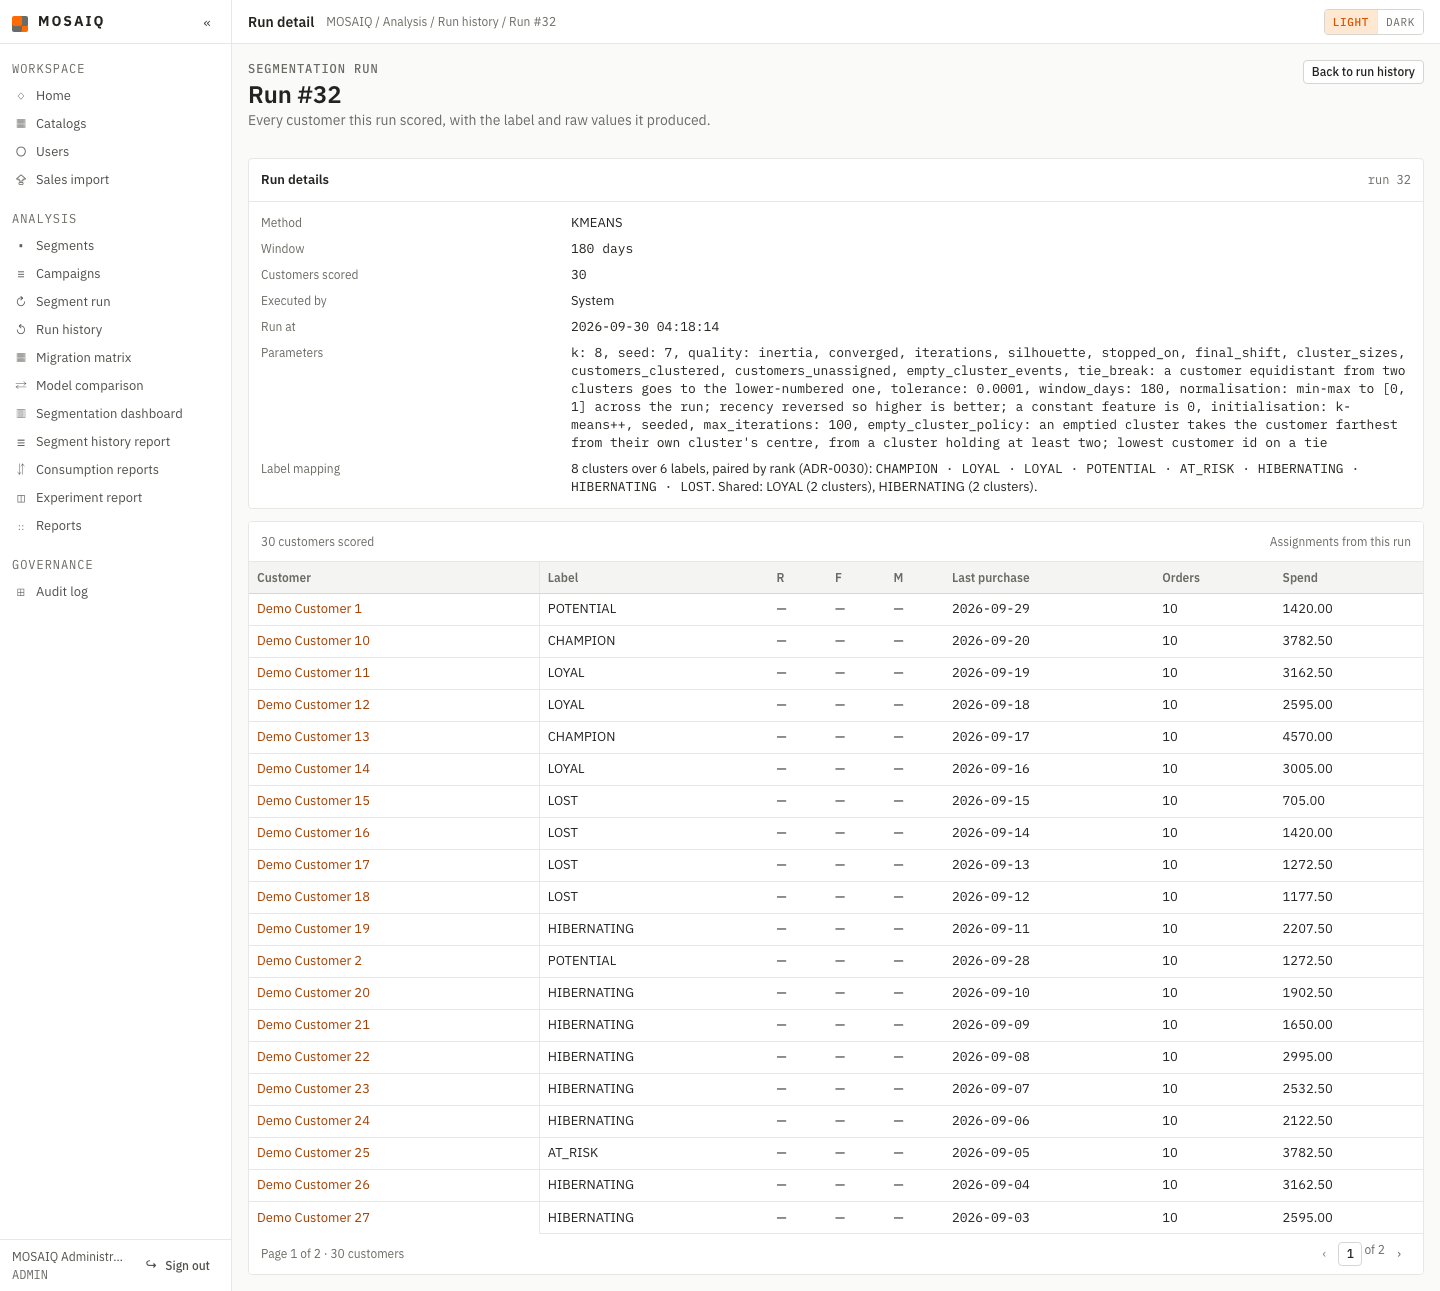
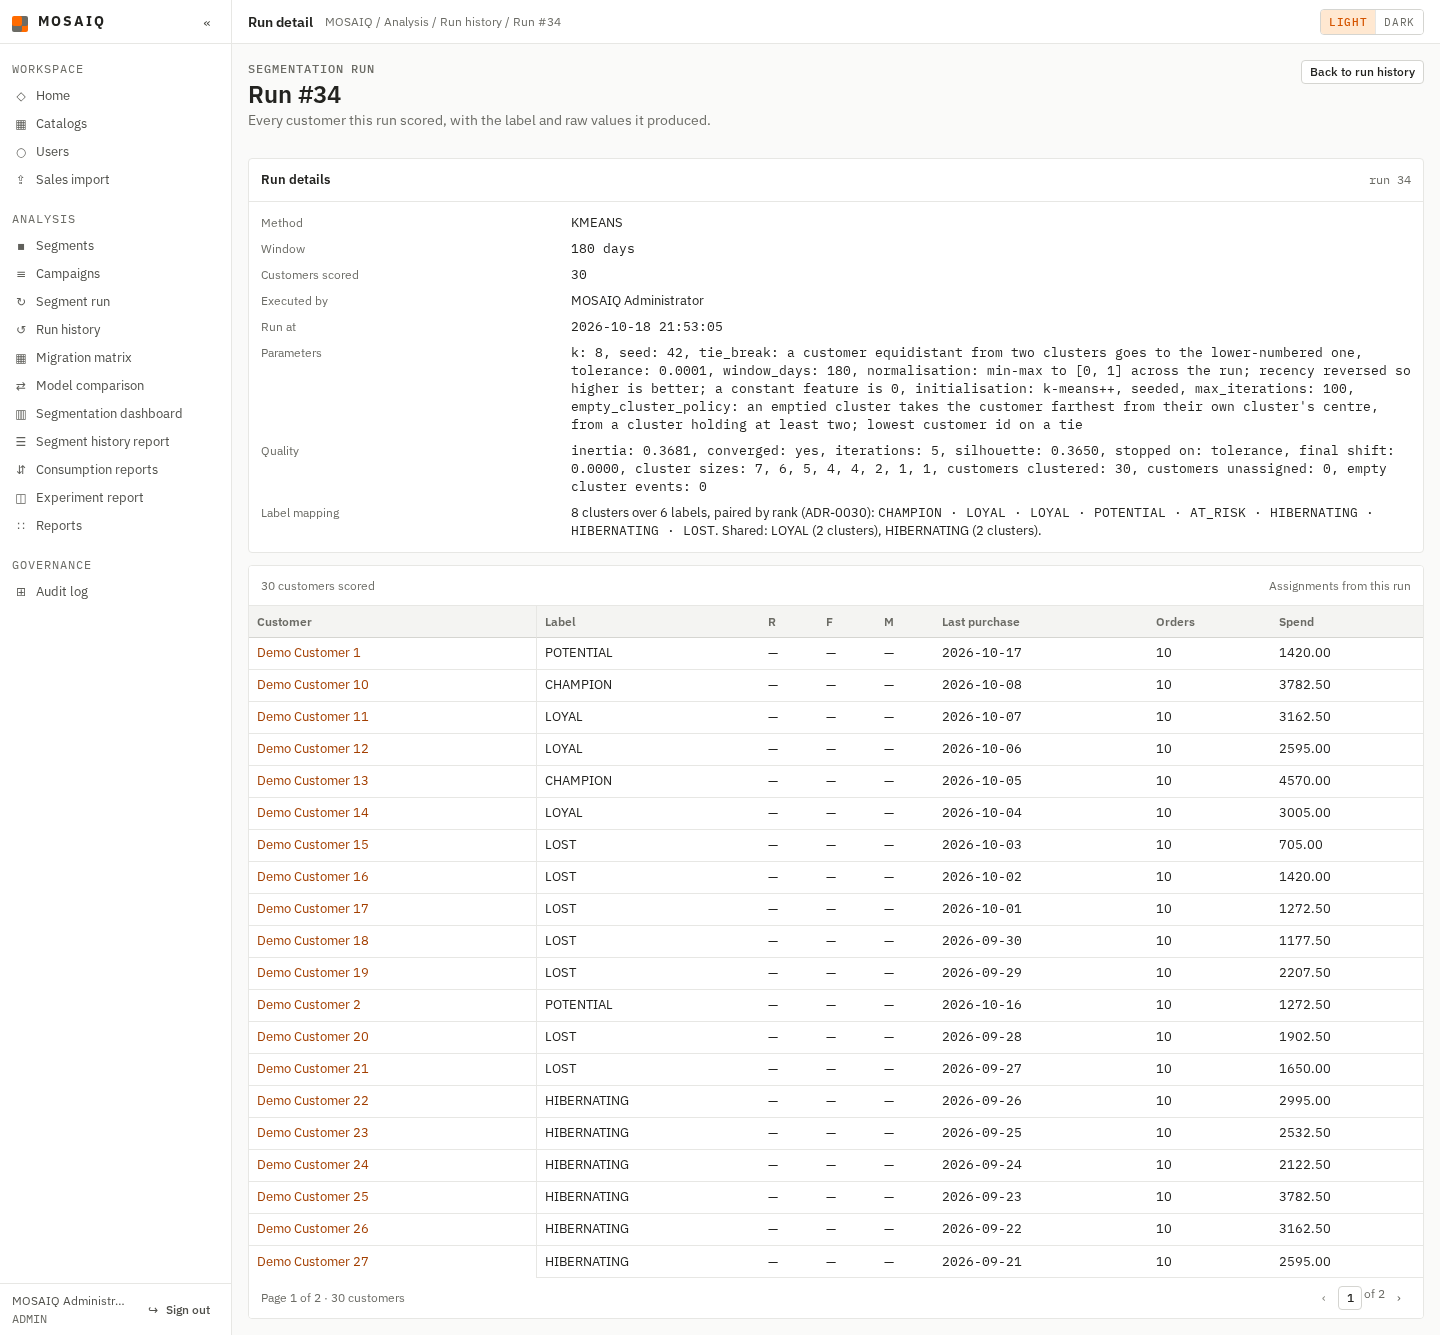
fix(run-history): show each K-means quality measure with its value (#447)
The parameters list joined every iterable, so the quality dict printed as
its keys only. Quality now has its own line listing each measure with its
value, floats to four places, booleans as yes/no and a missing silhouette
as a dash; rule-based runs are unchanged. The run-detail captures are
retaken on PostgreSQL 16.

diff --git a/web/templates/run_history/detail.html b/web/templates/run_history/detail.html
@@ -19,7 +19,15 @@
         <dt>Customers scored</dt><dd class="mq-mono">{{ run.customer_count }}</dd>
         <dt>Executed by</dt><dd>{{ run.executed_by_name or "System" }}</dd>
         <dt>Run at</dt><dd class="mq-mono">{{ run.run_at.strftime("%Y-%m-%d %H:%M:%S") }}</dd>
-        <dt>Parameters</dt><dd class="mq-mono">{% for key, value in run.parameters.items() if key != "label_mapping" %}{{ key }}: {% if value is sameas true %}yes{% elif value is sameas false %}no{% elif value is none %}—{% elif value is iterable and value is not string %}{{ value|join(", ") }}{% else %}{{ value }}{% endif %}{% if not loop.last %}, {% endif %}{% endfor %}</dd>
+        {# One format for every recorded value: a dict nested in the parameters is
+           listed key by key with its values, never joined into its keys (#447). #}
+        {% macro scalar(value) %}{% if value is sameas true %}yes{% elif value is sameas false %}no{% elif value is none %}—{% elif value is float %}{{ "%.4f"|format(value) }}{% elif value is iterable and value is not string %}{{ value|join(", ") }}{% else %}{{ value }}{% endif %}{% endmacro %}
+        <dt>Parameters</dt><dd class="mq-mono">{% for key, value in run.parameters.items() if key not in ("label_mapping", "quality") %}{{ key }}: {{ scalar(value) }}{% if not loop.last %}, {% endif %}{% endfor %}</dd>
+        {% set quality = run.parameters.get("quality") %}
+        {% if quality is mapping %}
+          <dt>Quality</dt>
+          <dd id="quality-measures" class="mq-mono">{% for key, value in quality.items() %}{{ key|replace("_", " ") }}: {{ scalar(value) }}{% if not loop.last %}, {% endif %}{% endfor %}</dd>
+        {% endif %}
         {% set mapping = run.parameters.get("label_mapping") %}
         {% if mapping %}
           {# ADR-0030: how the clusters were paired with labels, by label code only. #}

diff --git a/tests/test_run_history.py b/tests/test_run_history.py
@@ -274,3 +274,64 @@ def test_a_run_recorded_before_the_mapping_existed_shows_no_mapping_line(
     body = _detail(app, monkeypatch, {"k": 6})
 
     assert 'id="label-mapping"' not in body
+
+
+# ---------- #447: a K-means run shows its quality measures with their values ----------
+
+
+def test_a_kmeans_run_shows_each_quality_measure_with_its_value(
+    app: Flask, monkeypatch: pytest.MonkeyPatch
+) -> None:
+    quality = {
+        "inertia": 12.345678,
+        "silhouette": 0.41,
+        "cluster_sizes": [12, 10, 8],
+        "iterations": 6,
+        "converged": True,
+        "stopped_on": "tolerance",
+        "final_shift": 0.0,
+    }
+
+    body = _detail(app, monkeypatch, {"k": 3, "quality": quality})
+
+    assert "inertia: 12.3457" in body
+    assert "silhouette: 0.4100" in body
+    assert "cluster sizes: 12, 10, 8" in body
+    assert "iterations: 6" in body
+    assert "converged: yes" in body
+    assert "final shift: 0.0000" in body
+    # the measures are not repeated as bare keys in the parameter list
+    assert "quality: inertia" not in body
+
+
+def test_a_skipped_silhouette_shows_a_dash_and_the_reason(
+    app: Flask, monkeypatch: pytest.MonkeyPatch
+) -> None:
+    quality = {
+        "silhouette": None,
+        "silhouette_skipped": "a single cluster has no silhouette",
+    }
+
+    body = _detail(app, monkeypatch, {"k": 1, "quality": quality})
+
+    assert "silhouette: —" in body
+    assert "silhouette skipped: a single cluster has no silhouette" in body
+
+
+def test_a_rule_based_run_has_no_quality_line(
+    app: Flask, monkeypatch: pytest.MonkeyPatch
+) -> None:
+    monkeypatch.setattr(
+        "web.routes.run_history.get_run",
+        lambda _c, _id: _run(run_id=3, parameters={"window_days": 180, "quintiles": 5}),
+    )
+    monkeypatch.setattr(
+        "web.routes.run_history.list_run_assignments", lambda *a, **k: ([], 0)
+    )
+    client = app.test_client()
+    _sign_in(client, "ANALYST")
+
+    body = client.get("/run-history/3").get_data(as_text=True)
+
+    assert "window_days: 180, quintiles: 5" in body
+    assert "quality-measures" not in body

diff --git a/docs/evidence/f9-05-kmeans-variable-k.md b/docs/evidence/f9-05-kmeans-variable-k.md
@@ -45,7 +45,7 @@ customer list and the consumption reports.
 |---|---|---|
 | `f9-05-form-k5-{375,1440}.png` | 1 | The K-means form with K = 5 and its hint: 2 or more, paired with the labels by rank (ADR-0030). |
 | `f9-05-confirm-k5-{375,1440}.png` | 1 | K = 5 accepted and asking for confirmation, where it used to be refused. |
-| `f9-05-run-detail-k8-shared-labels-{375,1440}.png` | 2 | Run #32: *8 clusters over 6 labels, paired by rank (ADR-0030)*, the label of each position, and *Shared: LOYAL (2 clusters), HIBERNATING (2 clusters)*. Every customer row carries a label code. |
+| `f9-05-run-detail-k8-shared-labels-{375,1440}.png` | 2 | Run #34 (k 8, seed 42; recaptured for #447): *8 clusters over 6 labels, paired by rank (ADR-0030)*, the label of each position, and *Shared: LOYAL (2 clusters), HIBERNATING (2 clusters)*. The Quality line lists every measure with its value (inertia 0.3681, silhouette 0.3650, cluster sizes 7, 6, 5, 4, 4, 2, 1, 1, converged yes). Every customer row carries a label code. |
 | `f9-05-dashboard-k5-unused-label-{375,1440}.png` | 1, 2 | Run #31 on the segmentation dashboard: POTENTIAL at 0 customers, not omitted (RN-41). Its migration flow against the previous run (#30, RFM_RULES) also shows the cost ADR-0030 records: labels from a different model move customers who did not change. |
 | `f9-05-matrix-k5-to-k8-{375,1440}.png` | 2 | The migration matrix from run #31 to run #32, keyed only by label, including POTENTIAL, which #31 left empty. |
 
